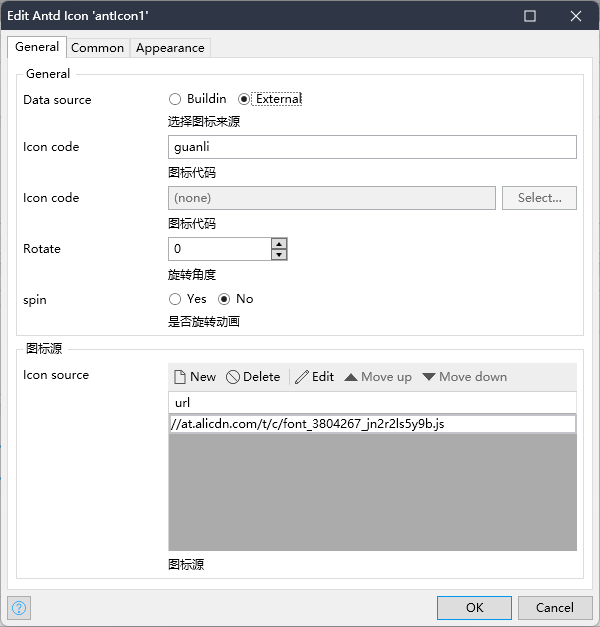
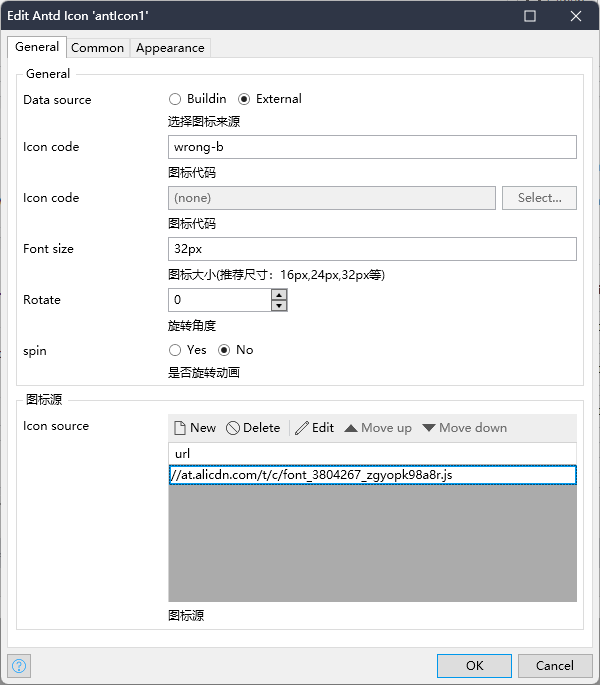
update readme

diff --git a/README-CN.md b/README-CN.md
@@ -1,0 +1,74 @@
+## 介绍
+
+基于 Ant Design 实现的 Mendix Widget 小部件。 widget 实现了 Ant Design (antd) 中 [`icon`](https://ant.design/components/icon) 的大部分接口。你可以去 [这里](https://ant.design/components/icon) 查看原始 antd 组件的各种功能。
+
+![Ant Design 下拉菜单](./resources/introduction.png)
+
+## 特征
+
+1. 支持两种类型的资源，包括：`buildin`和`external iconfont`。
+2. 支持静态定义或使用attribute绑定动态iconfont。
+4. 支持其他Ant Design图标API配置
+
+## 快速开始
+
+1. 将小部件添加到 Mendix 项目。
+    1. 从[这里](https://github.com/wiwengweng/mendix-antd-dropdown-menu/releases/download/antdropdownmenu-v1.0.0/mendix.AntDropdownMenu.mpk)下载mpk文件。
+    3. 将 mpk 文件复制到您的 Mendix 项目目录 `{YourMendixProjectFolder}/widgets/`。
+    4. 使用 Mendix Studio Pro 打开您的 Mendix 项目，然后单击菜单 `Menu > App > Synchronize App Directory`。
+2. 使用`Antd Icon`。
+    1. 选择任意页面并从 Mendix Studio Pro 的工具箱中搜索“Antd Icon”。
+    2. 在页面中添加一个`Antd Icon` 组件。
+    3. 设置组件的属性。双击组件并按照设置进行操作：
+        1. 从Icon source中选择`Buildin`；
+        2. 从“Select icon”下拉列表中选择一个图标
+        3. 完成配置，运行项目看效果
+
+## 演示项目
+
+1. 您可以在[此处](todo) 访问在线演示。
+2.您也可以下载demo工程，在自己的Mendix Studio Pro上运行。具体方法如下：
+    1. 克隆演示项目。
+    2. 运行。
+    
+
+## 详细配置说明
+
+### General
+
+General选项卡包含大多数常见的配置选项
+
+![属性-一般](./resources/icon-general.png)
+
+* Icon source - 支持内置图标和使用外部 iconfont。
+* Select icon - 为用户提供 50 多个内置图标
+* Icon code - 指定数据属性以检索图标名称
+* rotate - 支持图标旋转
+* Spin - 支持图标旋转动画
+
+External Iconfont
+
+你可以使用 iconfont 自定义图标
+![](./resources/icon-external.png)
+
+在`Icon source`中添加一个iconfont库，并填写`Icon code`
+
+附：使用 iconfont 的 Ant Design Icon 有一些限制。 Iconfonts 以 `icon-` 命名。例如：`icon-wrong-b`。我们将用第二部分 `wrong-b` 填入 `Icon code`中即可。
+
+## 与 antd 图标功能对比
+
+这里列出了 `antd` 中 `icon` 的所有参数，并说明了 widget 是否支持这些 API，以及为什么不支持（最终开发者可以 DIY）。如果你想了解更多`antd`中的原始API，请[查看](https://ant.design/components/icon)。
+
+![](./resources/API%E5%AF%B9%E6%AF%94.png)
+## 问题、建议和功能请求
+[Github问题](https://github.com/wiwengweng/mendix-antd-icon/issues)
+
+同时，欢迎您进入中国技术论坛，了解更多关于Mendix widget开发的信息。 [查看](https://marketplace.siemens.com.cn/low-code-community)
+
+## 本地开发和贡献
+
+1. 克隆项目到本地，并安装依赖:`npm install`. 如果 npm 版本是v7.x.x, （用户可使用`npm -v`检查版本）, 使用一下命令安装依赖:`npm install--legacy-peer-deps`.
+2. 在命令行运行npm start开始编译打包组件:
+    * 项目开始编译...
+    * 等待编译完成，组件会在dist 目录下自动生成；
+    * 开发者可以自行修改package.json中的配置项，指定Mendix的测试项目地址，编译完成后后组件会自动同步到deployment 和 widgets目录中。

diff --git a/README.md b/README.md
@@ -1,4 +1,4 @@
-[中文版](https://github.com/wiwengweng/mendix-antd-dropdown-menu/blob/main/README-CN.md)
+[中文版](https://github.com/wiwengweng/mendix-antd-icon/blob/main/README-CN.md)
 ## Introduction
 
 A Mendix Widget widget implemented based on Ant Design. The widget implements most of the interfaces of [`icon`](https://ant.design/components/icon) in Ant Design (antd). You can go [here](https://ant.design/components/icon) to see various features of the original antd component.
@@ -47,13 +47,22 @@ The General tab contains most of the common configuration options
 * Rotate - Support icon rotate
 * Spin - Support icon spin animation
 
+External icons
+
+you can use iconfont to customize the icons
+![](./resources/icon-external.png)
+
+add a iconfont library to the `Icon source`, and fill in the `Icon code`
+
+p.s. There are some restricts within Ant Design Icon with iconfont. Iconfonts are named after `icon-`. e.g: `icon-wrong-b`. We shall fill in the `Icon code` with the 2nd part `wrong-b`.
+
 ## Functional comparison with `antd` Icon
 
-This lists all the parameters of `dropdown` in `antd`, and explains whether the widget supports this APIs, and why without support(eventually developers can DIY). If you want to learn more of the original APIs in `antd`, please [check this out](https://ant.design/components/icon).
+This lists all the parameters of `Icon` in `antd`, and explains whether the widget supports this APIs, and why without support(eventually developers can DIY). If you want to learn more of the original APIs in `antd`, please [check this out](https://ant.design/components/icon).
 
 ![](./resources/API%E5%AF%B9%E6%AF%94.png)
 ## Issues, suggestions and feature requests
-[Github Issue](https://github.com/wiwengweng/mendix-antd-dropdown-menu/issues)
+[Github Issue](https://github.com/wiwengweng/mendix-antd-icon/issues)
 
 At the same time, your are welcome to get into the China Technology Forum to get more in Mendix widget development. [check this out](https://marketplace.siemens.com.cn/low-code-community)
 
